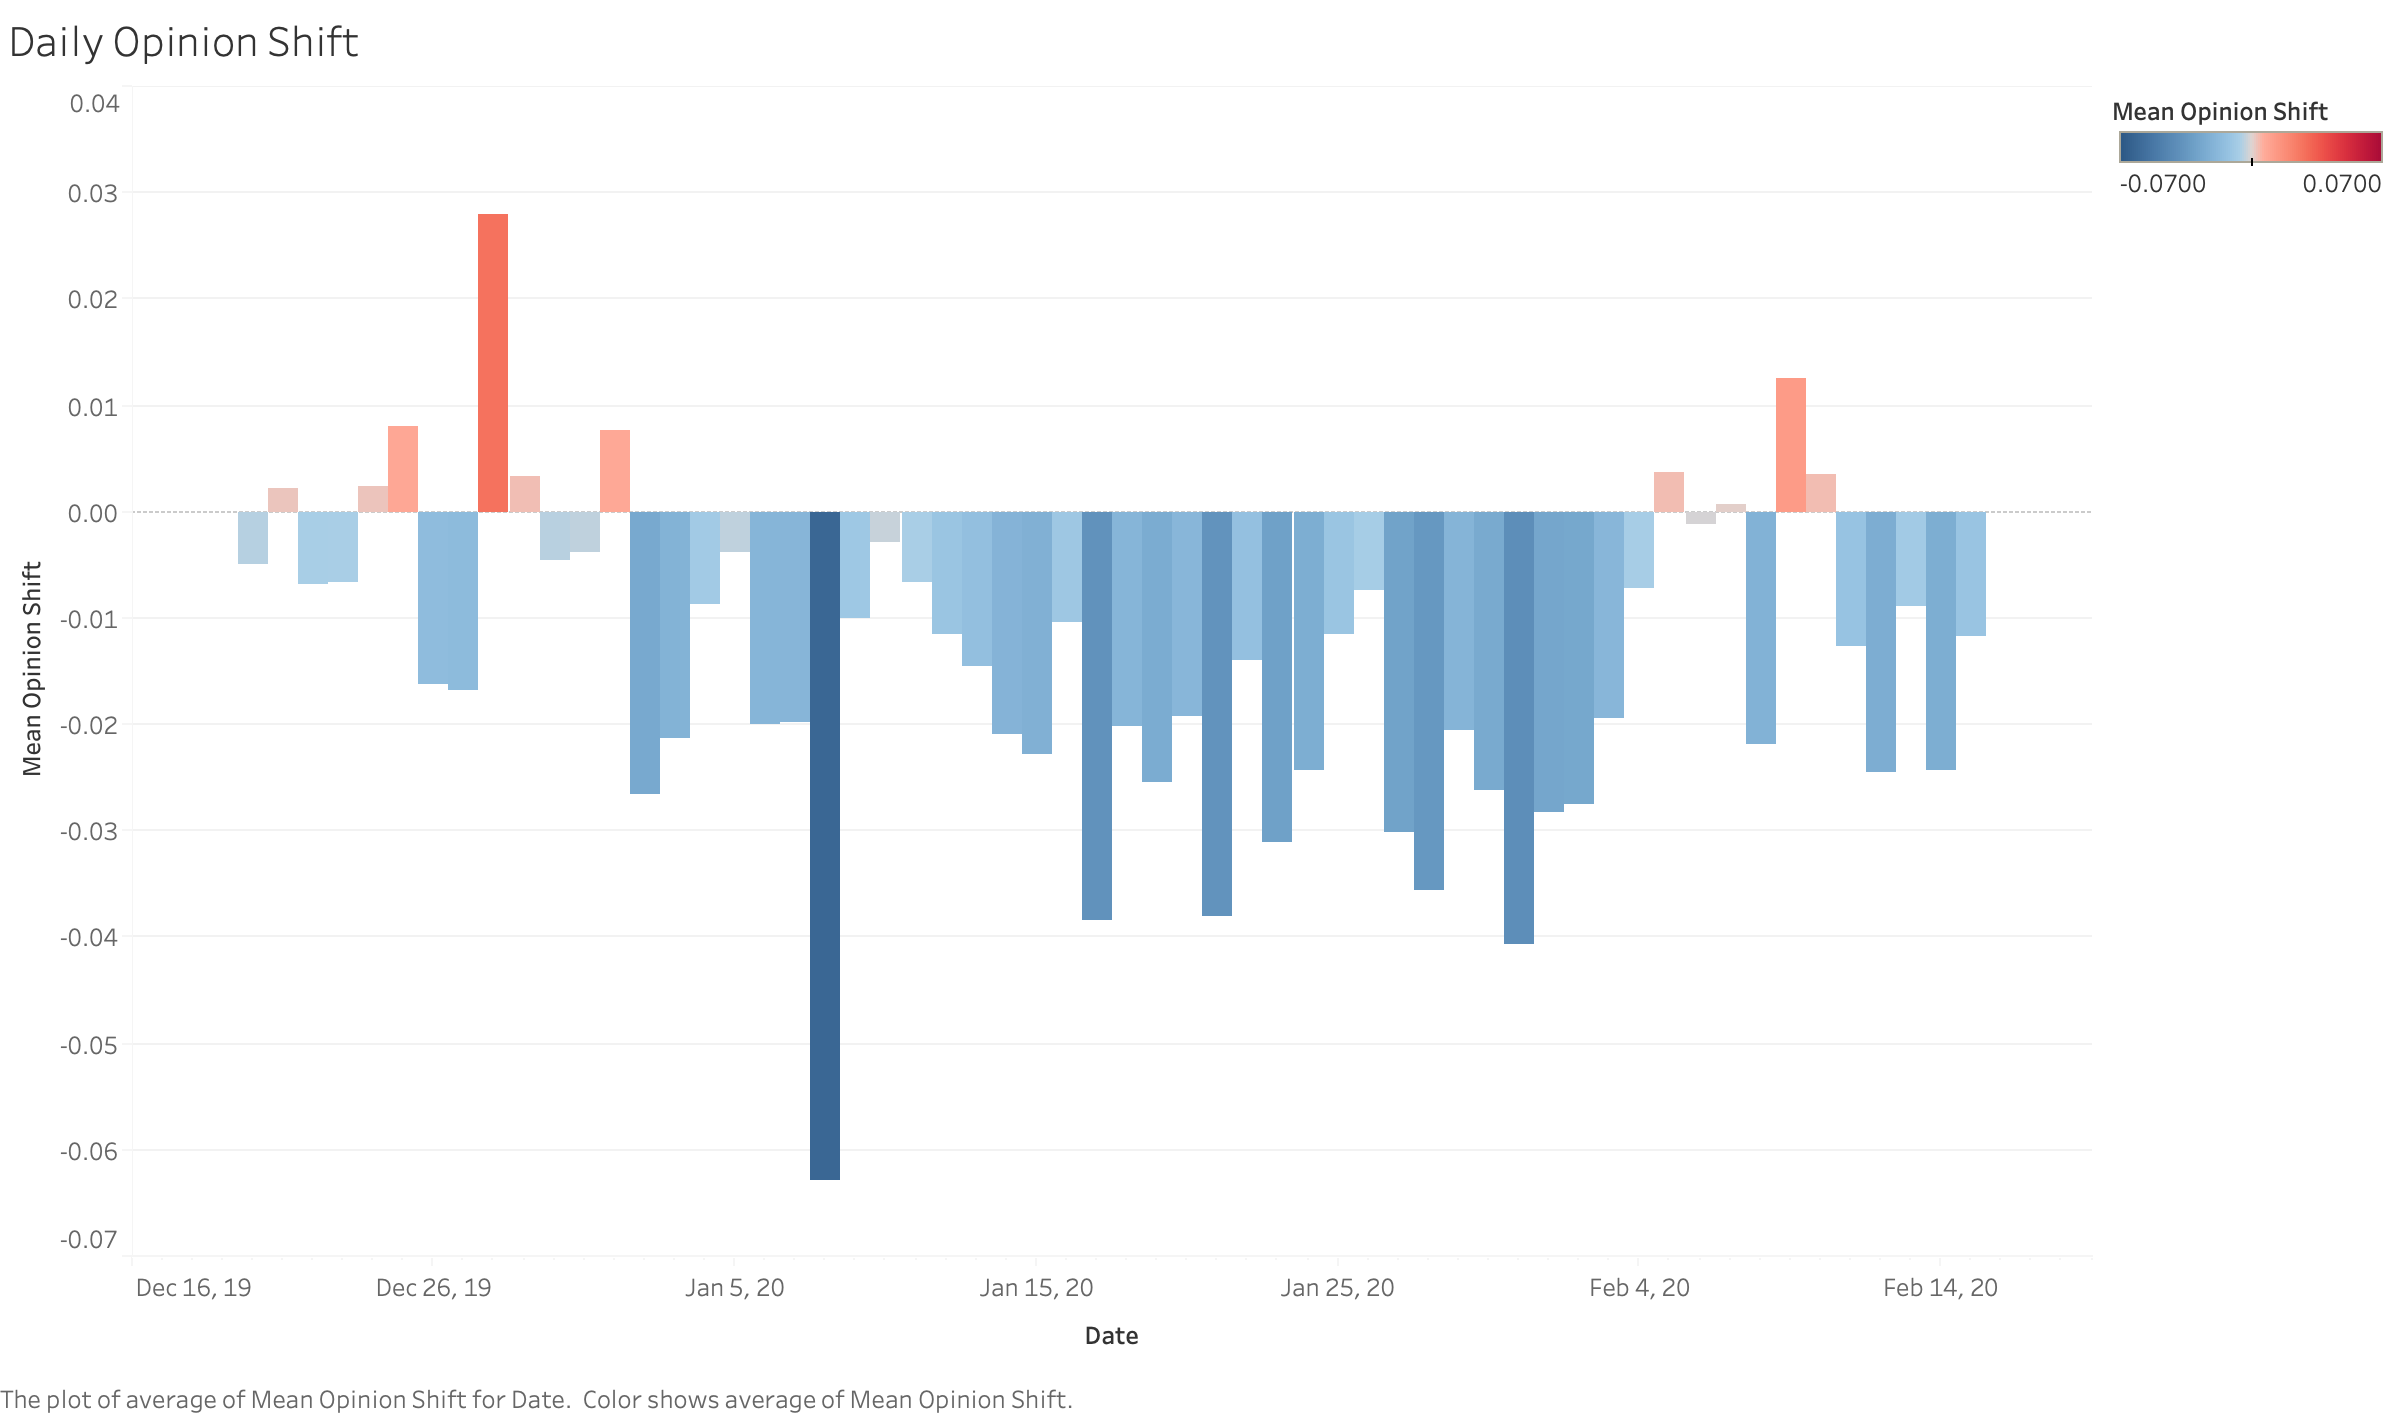
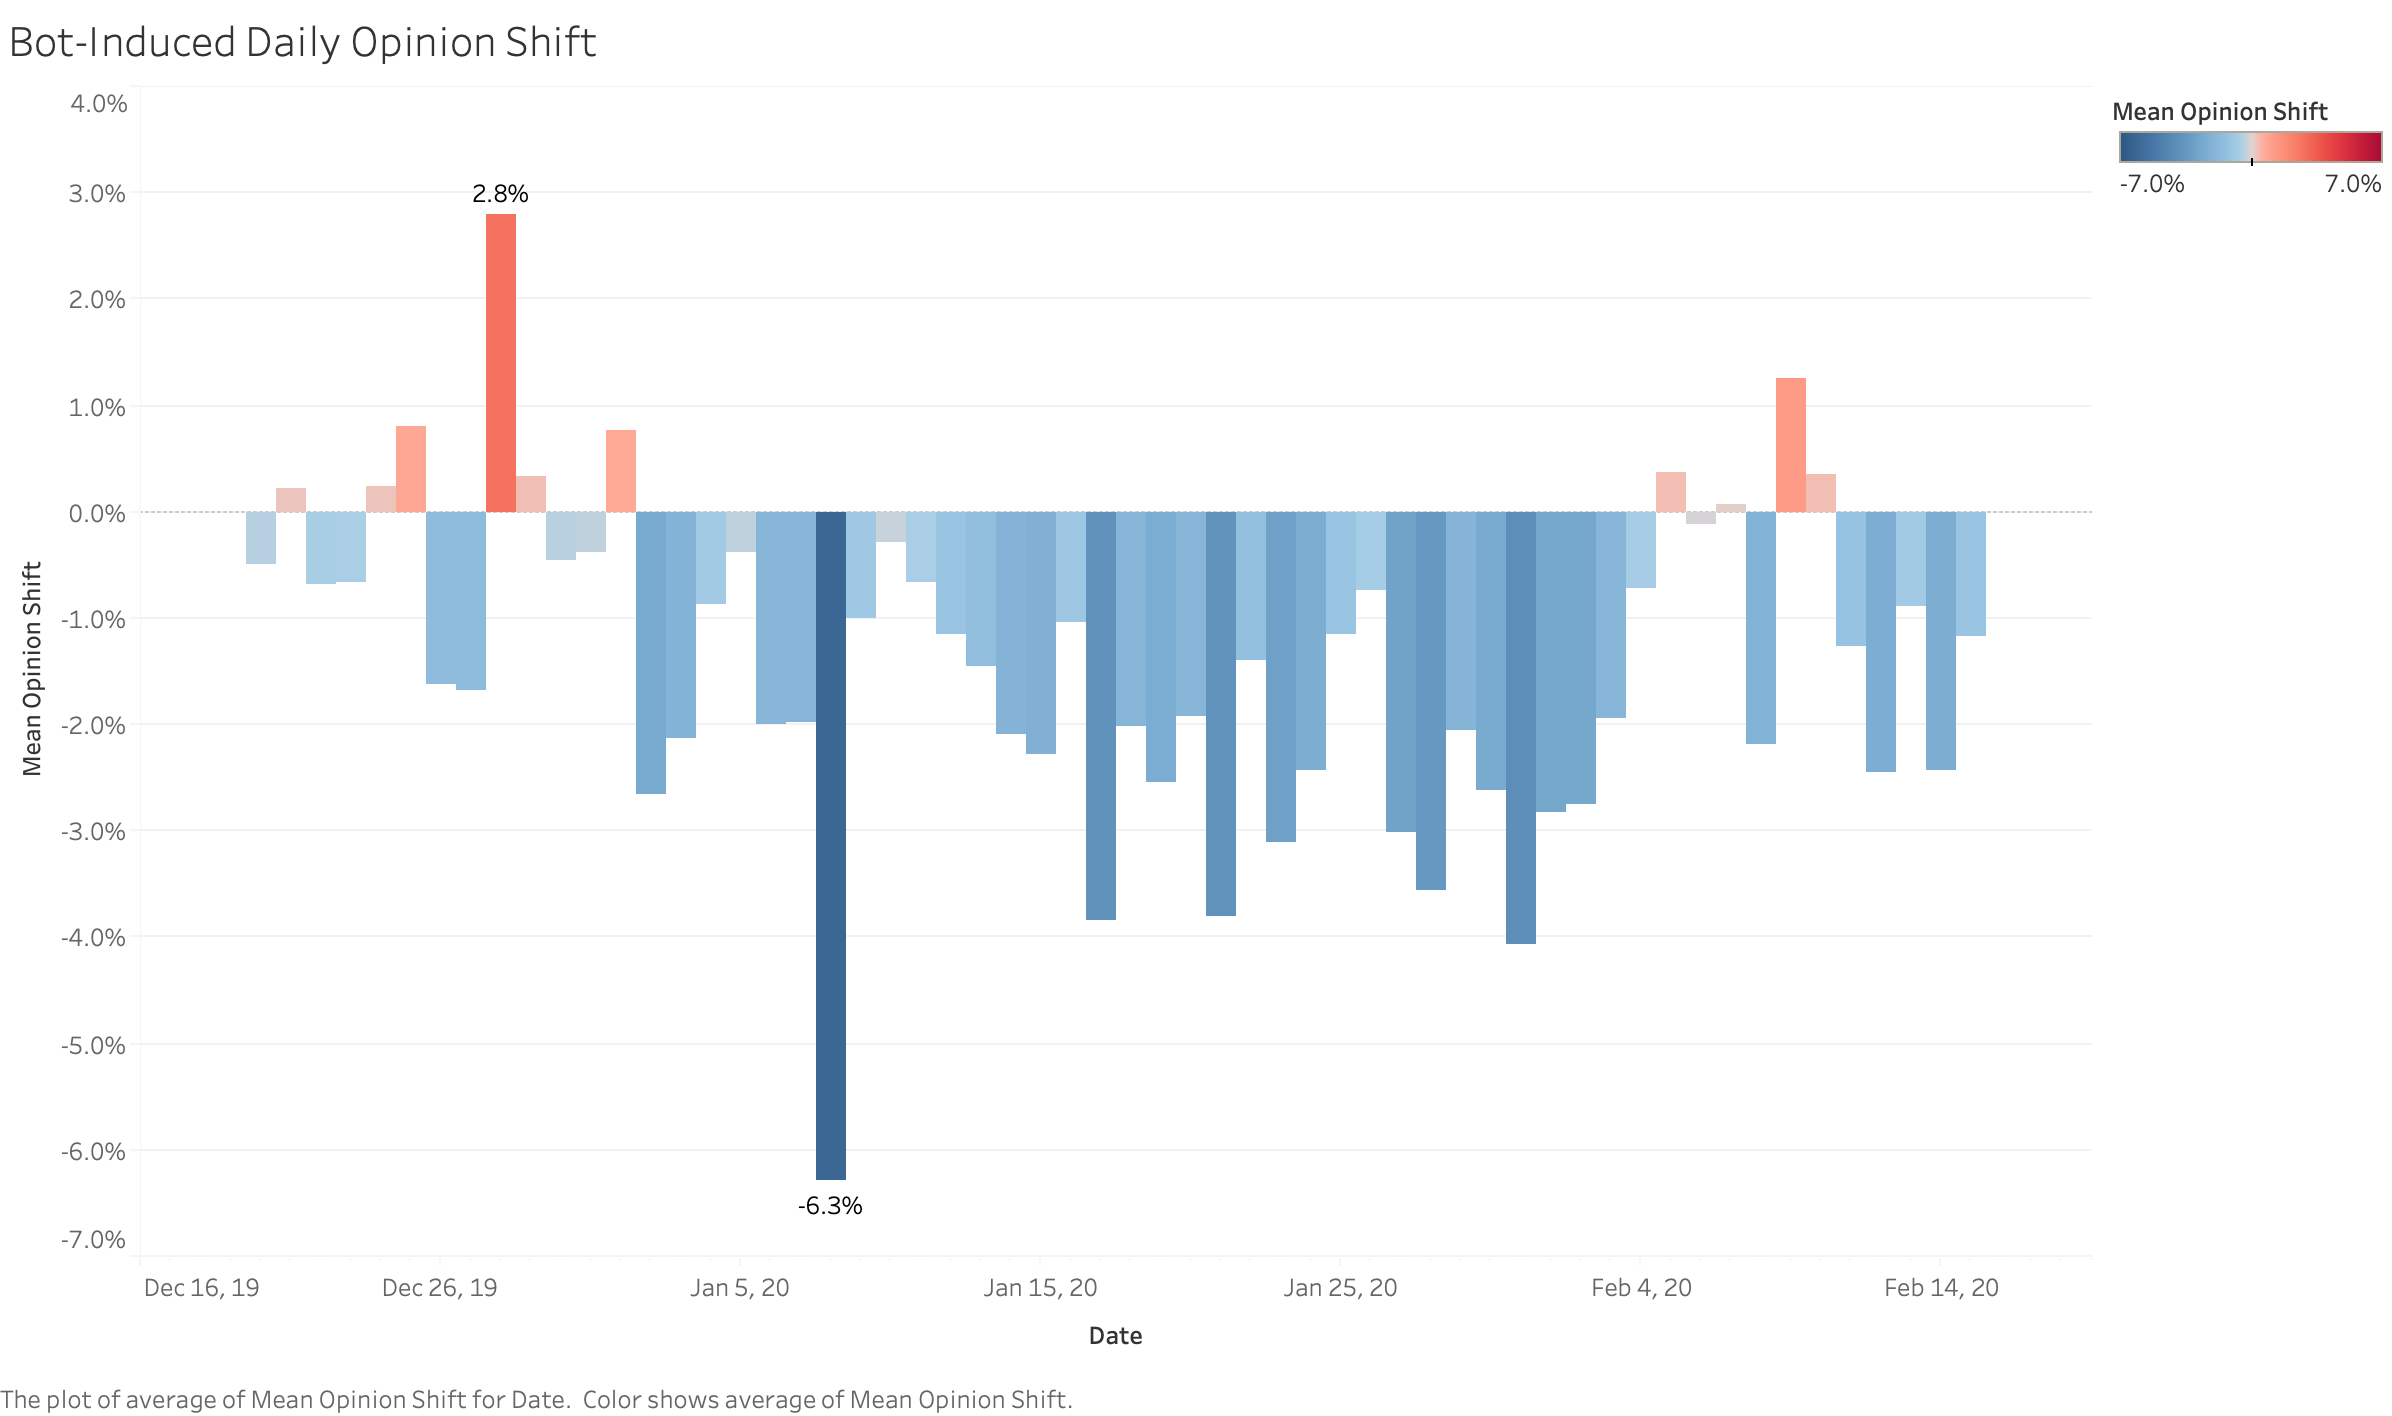
Simplify and Update Bot Impact Page

diff --git a/src/_App/BotAnalysis/Impact/Section.js b/src/_App/BotAnalysis/Impact/Section.js
@@ -6,7 +6,7 @@ import Container from 'react-bootstrap/Container'
 import Card from 'react-bootstrap/Card'
 //import Table from 'react-bootstrap/Table'
 
-import dailyEquilibrium from "./daily-opinion-equilibrium-tableau.png"
+//import dailyEquilibrium from "./daily-opinion-equilibrium-tableau.png"
 import dailyShift from "./daily-opinion-shift-tableau.png"
 
 export default function BotImpact() {
@@ -18,13 +18,16 @@ export default function BotImpact() {
 
                     <Card.Text>
                         For each day in our primary collection period, we calculated the average opinion scores for all users, with vs. without bots, to assess the impact the bots were having on the conversation.
+                        {/*
                         {" "} We observe the mean daily opinion score without bots is 46.6%, while with bots is 45.2%.
                         {" "} This suggests there is an average daily opinion shift of 1.4% towards left-leaning bot opinions.
                     </Card.Text>
                     <img src={dailyEquilibrium} alt="a line graph of daily opinion with bots vs without" style={{marginTop:20, marginBottom:20}} class="img-fluid"/>
 
                     <Card.Text>
-                        The chart below shows the shift in opinion scores by day.
+                        */}
+                        {" "} We observe the average daily bot-induced opinion shift is 1.4% towards left-leaning opinions.
+                        {" "} The chart below shows the shift in opinion scores by day.
                         {" "} The highest daily shift towards right-leaning bot opinions was 2.8% on 12/28, and the highest daily shift towards left-leaning bot opinions was 6.3% on 1/8.
                     </Card.Text>
                     <img src={dailyShift} alt="a bar graph of daily opinion shift by bot community" style={{marginTop:20, marginBottom:20}} class="img-fluid"/>
